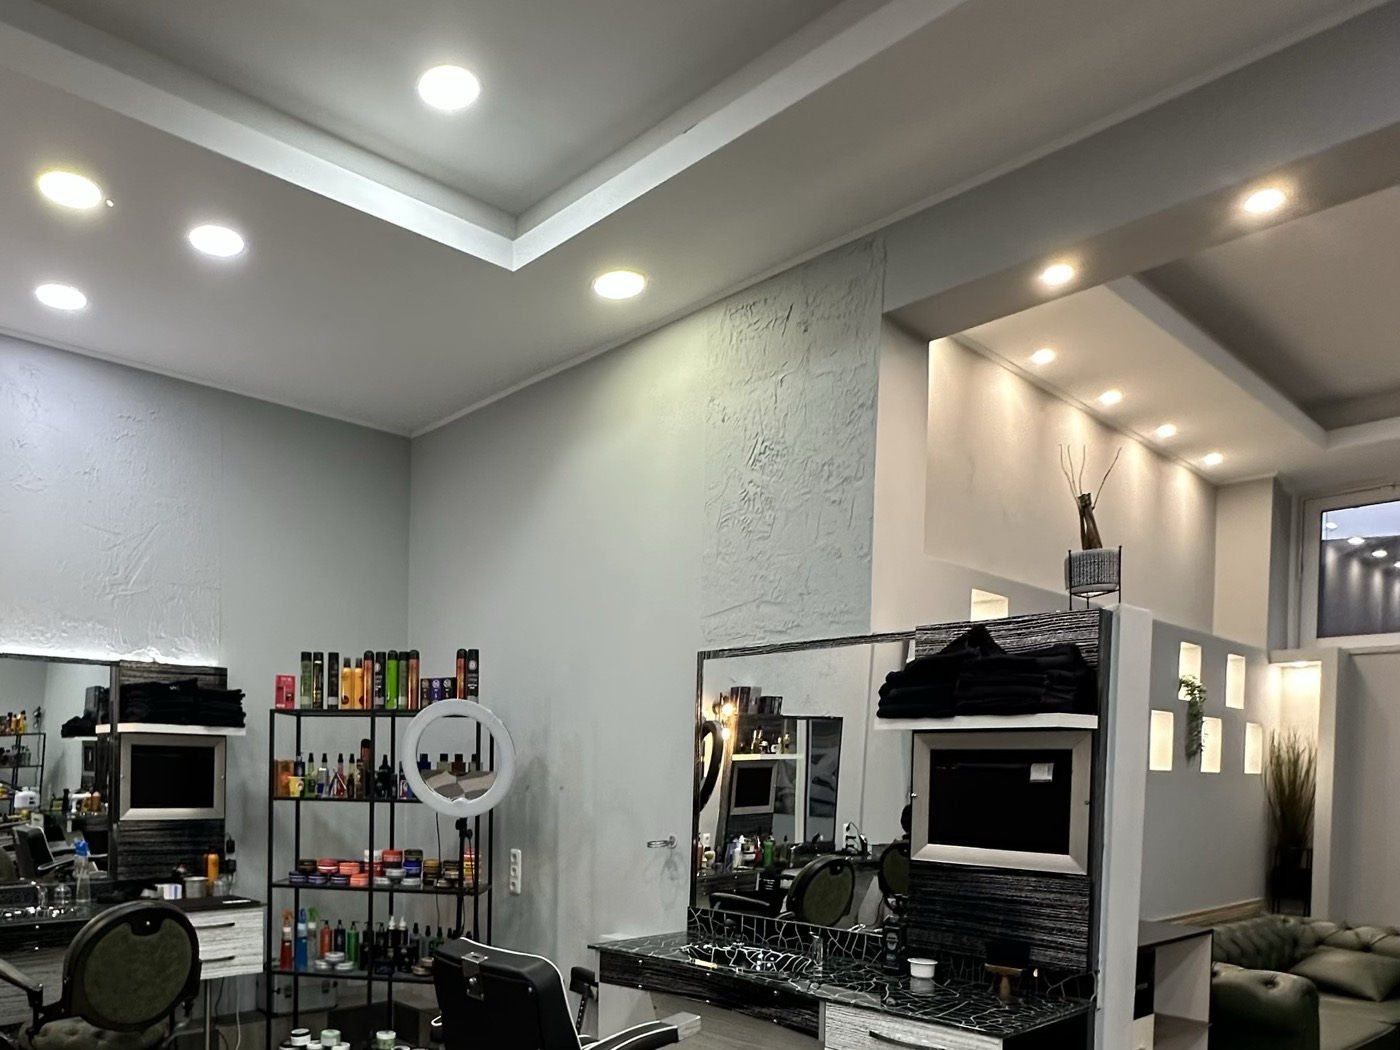
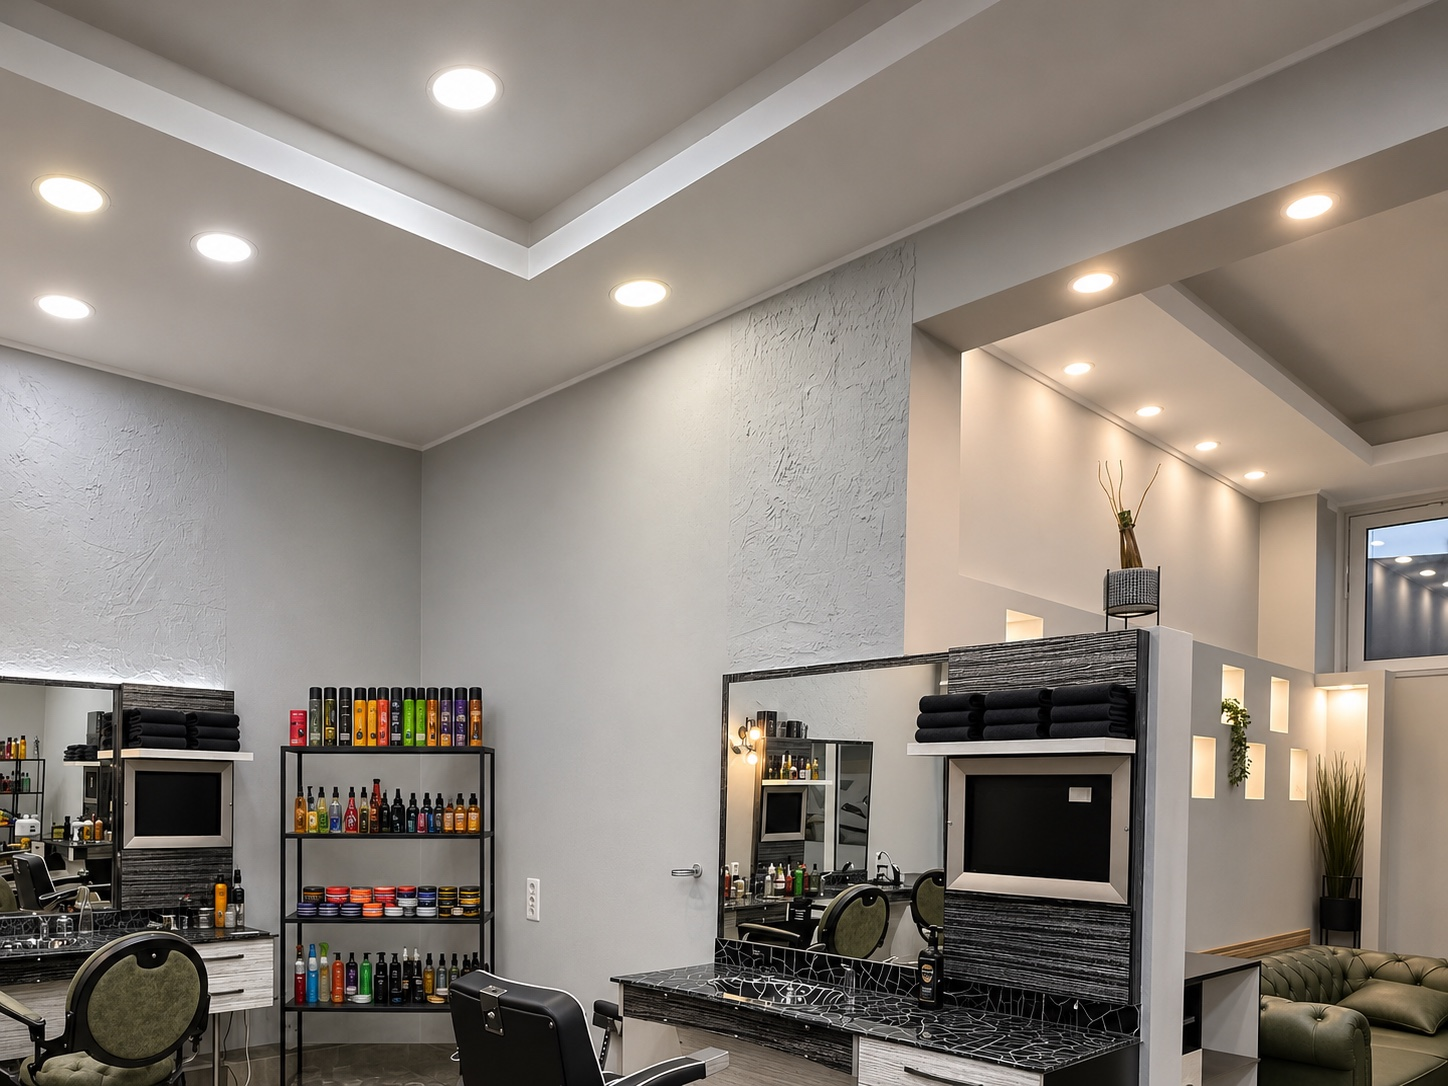
Update Gözde Barbershop draft photography

diff --git a/goezde-barbershop/v2/index.html b/goezde-barbershop/v2/index.html
@@ -1,0 +1,291 @@
+<!doctype html>
+<html lang="de">
+<head>
+  <meta charset="utf-8">
+  <meta name="viewport" content="width=device-width, initial-scale=1">
+  <meta name="robots" content="noindex, nofollow">
+  <meta name="description" content="Gözde Barbershop in Kiel-Gaarden. Haarschnitte, Fades und Bartpflege in der Johannesstraße 45.">
+  <meta name="theme-color" content="#561b29">
+  <title>Gözde Barbershop · Kiel-Gaarden</title>
+  <style>
+    :root {
+      color-scheme: light;
+      --paper: #f6efe5;
+      --ink: #28221f;
+      --muted: #64544e;
+      --wine: #561b29;
+      --light-wine: #eac7b9;
+      --line: #cfc0b4;
+      --display: Georgia, "Times New Roman", serif;
+    }
+
+    *, *::before, *::after { box-sizing: border-box; }
+    body {
+      margin: 0;
+      background: var(--paper);
+      color: var(--ink);
+      font: 1rem/1.55 system-ui, sans-serif;
+    }
+    h1, h2, h3, p, dl, dd, figure { margin: 0; }
+    a { color: inherit; text-underline-offset: .24em; }
+    a:focus-visible { outline: 2px solid currentColor; outline-offset: 5px; }
+    img { display: block; width: 100%; height: 100%; object-fit: cover; }
+    .shell { width: min(100% - 5rem, 1320px); margin-inline: auto; }
+    .label { font-size: .875rem; font-weight: 650; letter-spacing: .13em; text-transform: uppercase; }
+    .skip { position: absolute; top: .5rem; left: .5rem; z-index: 1; padding: .75rem; background: var(--paper); }
+    .skip:not(:focus) { clip-path: inset(50%); }
+
+    .masthead {
+      display: flex;
+      align-items: center;
+      justify-content: space-between;
+      gap: .5rem 1.5rem;
+      min-height: 78px;
+      padding-block: .6rem;
+    }
+    .wordmark { color: var(--wine); font: 700 1.85rem/1 var(--display); text-decoration: none; }
+    .navigation { display: flex; flex-wrap: wrap; gap: .15rem clamp(.9rem, 2.6vw, 2.5rem); }
+    .navigation a { display: inline-flex; align-items: center; min-height: 44px; font-size: .95rem; font-weight: 600; text-decoration: none; }
+    .navigation a:hover { text-decoration: underline; }
+    .draft { border: 1px solid var(--line); padding: .3rem .6rem; color: var(--wine); }
+
+    .hero { display: grid; grid-template-columns: 1fr 1fr; background: var(--wine); color: var(--paper); }
+    .hero-copy { padding: clamp(2.8rem, 6vw, 6rem) clamp(1.75rem, 4.5vw, 4.5rem); }
+    .hero-copy .label { color: var(--light-wine); }
+    h1 {
+      margin-block: 1.5rem 1.65rem;
+      font: 400 clamp(5rem, 9.8vw, 10rem)/.82 var(--display);
+      letter-spacing: -.08em;
+    }
+    h1 em { display: block; margin-top: .23em; font-size: .53em; letter-spacing: -.055em; font-weight: 400; }
+    .hero-lead { max-width: 28ch; font-size: clamp(1rem, 1.45vw, 1.2rem); }
+    .hero-photo { min-width: 0; min-height: 100%; position: relative; }
+    .hero-photo img { position: absolute; object-position: 53% 62%; }
+    .button {
+      display: inline-flex;
+      align-items: center;
+      justify-content: center;
+      width: fit-content;
+      min-height: 48px;
+      padding: .65rem 1.15rem;
+      border: 1px solid var(--paper);
+      background: var(--paper);
+      color: var(--wine);
+      font-weight: 700;
+      text-decoration: none;
+    }
+    .button:hover { background: var(--light-wine); }
+    .button:focus-visible { outline-color: var(--paper); }
+    .hero .button { margin-top: 1.65rem; }
+    .visit-strip {
+      display: grid;
+      grid-template-columns: repeat(3, minmax(0, 1fr));
+      border-bottom: 1px solid var(--line);
+    }
+    .visit-strip a {
+      display: flex;
+      flex-direction: column;
+      min-width: 0;
+      padding: 1rem clamp(.85rem, 2.7vw, 2.6rem);
+      text-decoration: none;
+    }
+    .visit-strip a + a { border-left: 1px solid var(--line); }
+    .visit-strip a:hover { background: #efe3d7; }
+    .visit-strip .label { color: var(--wine); }
+    .visit-strip .detail { margin-top: .2rem; }
+
+    .section { padding-block: clamp(3.5rem, 7.5vw, 7.5rem); }
+    h2 { color: var(--wine); font: 400 clamp(3rem, 6.3vw, 6rem)/.97 var(--display); letter-spacing: -.065em; }
+    .services { display: grid; grid-template-columns: minmax(0, .8fr) minmax(0, 1.2fr); gap: clamp(2rem, 8vw, 8rem); }
+    .section-intro p { max-width: 29ch; margin-top: 1.1rem; color: var(--muted); }
+    .service-list > div { padding-block: 1.05rem; border-top: 1px solid var(--line); }
+    .service-list > div:last-child { border-bottom: 1px solid var(--line); }
+    .service-list dt { font: 400 clamp(1.45rem, 2.4vw, 2rem)/1.12 var(--display); }
+    .service-list dd { margin-top: .35rem; color: var(--muted); }
+
+    .salon { border-top: 1px solid var(--line); }
+    .salon-heading { display: flex; align-items: end; justify-content: space-between; flex-wrap: wrap; gap: 1rem 2rem; margin-bottom: 1.6rem; }
+    .salon-heading p { max-width: 34ch; color: var(--muted); }
+    .gallery { display: grid; grid-template-columns: 1.65fr 1fr; gap: clamp(.75rem, 2vw, 1.75rem); }
+    .gallery img { aspect-ratio: 1.65; height: auto; }
+    .gallery figure:last-child img { aspect-ratio: 1; object-position: center 65%; }
+    figcaption { padding-top: .5rem; color: var(--muted); font-size: .875rem; }
+
+    .reviews { border-top: 1px solid var(--line); }
+    .review-summary { display: grid; grid-template-columns: minmax(0, .8fr) minmax(0, 1.2fr); gap: 1.5rem clamp(2rem, 8vw, 8rem); align-items: start; }
+    .review-summary h2 { font-size: clamp(2.5rem, 4.5vw, 4.4rem); }
+    .review-copy p { max-width: 42ch; color: var(--muted); }
+    .review-copy .rating { margin-bottom: .5rem; color: var(--wine); font-weight: 700; }
+    .review-copy a { display: inline-block; margin-top: .75rem; color: var(--wine); }
+
+    .contact { background: var(--wine); color: var(--paper); }
+    .contact h2 { color: inherit; }
+    .contact-grid { display: grid; grid-template-columns: 1fr 1fr; gap: 2.5rem clamp(2rem, 8vw, 8rem); margin-top: 2.1rem; }
+    .contact h3 { margin-bottom: .75rem; color: var(--light-wine); }
+    address { font-style: normal; }
+    .contact-actions { display: flex; flex-wrap: wrap; gap: .65rem; margin-top: 1.15rem; }
+    .button-outline { background: transparent; color: var(--paper); }
+    .button-outline:hover { color: var(--wine); }
+    .hours { width: 100%; border-collapse: collapse; font-variant-numeric: tabular-nums; }
+    .hours th, .hours td { border-bottom: 1px solid #98636c; padding: .55rem 0; }
+    .hours th { padding-right: .75rem; text-align: left; font-weight: 500; }
+    .hours td { text-align: right; }
+    .access { margin-top: .9rem; color: var(--light-wine); }
+    footer {
+      display: flex;
+      justify-content: space-between;
+      flex-wrap: wrap;
+      gap: .5rem 1.5rem;
+      padding-block: 1rem;
+      color: var(--muted);
+      font-size: .875rem;
+    }
+
+    @media (max-width: 760px) {
+      .shell { width: calc(100% - 2rem); }
+      .masthead { display: grid; grid-template-columns: 1fr auto; padding-block: .85rem .25rem; }
+      .navigation { grid-row: 2; grid-column: 1 / -1; }
+      .hero, .services, .review-summary { grid-template-columns: 1fr; }
+      .hero-copy { padding-block: 2.4rem; }
+      h1 { font-size: clamp(4.7rem, 15vw, 7.3rem); }
+      .hero-photo { min-height: 0; aspect-ratio: 1.55; }
+      .visit-strip { grid-template-columns: 1fr; }
+      .visit-strip a { padding: .85rem 0; border-bottom: 1px solid var(--line); }
+      .visit-strip a + a { border-left: 0; }
+      .visit-strip { border-bottom: 0; }
+      .services { gap: 1.65rem; }
+    }
+
+    @media (max-width: 500px) {
+      .contact-grid, .gallery { grid-template-columns: 1fr; }
+      .gallery figure:last-child img { aspect-ratio: 1.65; }
+    }
+  </style>
+</head>
+<body>
+  <a class="skip" href="#inhalt">Zum Inhalt</a>
+  <header class="masthead shell">
+    <a class="wordmark" href="#inhalt" aria-label="Gözde Barbershop – Start">Gözde.</a>
+    <nav class="navigation" aria-label="Hauptnavigation">
+      <a href="#leistungen">Leistungen</a>
+      <a href="#salon">Salon</a>
+      <a href="#besuch">Besuch &amp; Kontakt</a>
+    </nav>
+    <span class="draft label">Entwurf</span>
+  </header>
+
+  <main id="inhalt">
+    <section class="hero shell" aria-labelledby="titel">
+      <div class="hero-copy">
+        <p class="label">Kiel-Gaarden</p>
+        <h1 id="titel">Gözde <em>Barbershop</em></h1>
+        <p class="hero-lead">Haarschnitte, Fades und Bartpflege in der Johannesstraße 45.</p>
+        <a class="button" href="tel:+4943138549076">Termin telefonisch anfragen</a>
+      </div>
+      <figure class="hero-photo">
+        <img src="../assets/salon-uebersicht.jpg" alt="Der Gözde Barbershop mit großen Spiegeln und Schachbrettboden" width="1448" height="1086" fetchpriority="high">
+      </figure>
+    </section>
+
+    <div class="visit-strip shell">
+      <a href="https://maps.app.goo.gl/9KV99X2SK7Gefa6M8">
+        <span class="label">Anfahrt</span>
+        <span class="detail">Johannesstraße 45, 24143 Kiel</span>
+      </a>
+      <a href="#zeiten">
+        <span class="label">Öffnungszeiten</span>
+        <span class="detail">Mo–Fr 9–19 Uhr · Sa 9–18 Uhr</span>
+      </a>
+      <a href="tel:+4943138549076">
+        <span class="label">Anrufen</span>
+        <span class="detail">0431 38549076</span>
+      </a>
+    </div>
+
+    <section id="leistungen" class="services section shell">
+      <div class="section-intro">
+        <h2>Haar &amp; Bart</h2>
+        <p>Aktuelle Preise erfahren Sie telefonisch oder direkt im Salon.</p>
+      </div>
+      <dl class="service-list">
+        <div>
+          <dt>Haarschnitt &amp; Fade</dt>
+          <dd>Klassischer Herrenhaarschnitt, Skin Fade und Taper Fade.</dd>
+        </div>
+        <div>
+          <dt>Bartpflege &amp; Rasur</dt>
+          <dd>Bart in Form bringen, Konturen schneiden oder klassisch rasieren.</dd>
+        </div>
+        <div>
+          <dt>Kinderhaarschnitt &amp; Kurzhaar</dt>
+          <dd>Kinderhaarschnitte, kurze Schnitte und Undercuts mit individuellen Mustern.</dd>
+        </div>
+        <div>
+          <dt>Waxing &amp; Styling</dt>
+          <dd>Waxing für Gesicht, Ohren und Nase sowie Waschen und Styling.</dd>
+        </div>
+      </dl>
+    </section>
+
+    <section id="salon" class="salon section shell">
+      <div class="salon-heading">
+        <h2>Der Salon</h2>
+        <p>Große Spiegel an den Bedienplätzen, grüne Chesterfield-Sofas im Wartebereich.</p>
+      </div>
+      <div class="gallery">
+        <figure>
+          <img src="../assets/lounge.jpg" alt="Grüne Chesterfield-Sofas mit Glastisch" width="1448" height="1086" loading="lazy">
+          <figcaption>Wartebereich</figcaption>
+        </figure>
+        <figure>
+          <img src="../assets/platz-rechts.jpg" alt="Schwarzer Friseurstuhl vor einem beleuchteten Spiegel" width="1122" height="1402" loading="lazy">
+          <figcaption>Bedienplatz</figcaption>
+        </figure>
+      </div>
+    </section>
+
+    <section class="reviews section shell" aria-labelledby="bewertungen">
+      <div class="review-summary">
+        <h2 id="bewertungen">Kundenstimmen</h2>
+        <div class="review-copy">
+          <p class="rating">4,8 von 5 · 150 Google-Bewertungen</p>
+          <p>Gäste loben das freundliche Team, saubere Übergänge und präzise Bartkonturen. Stand November 2026.</p>
+          <a href="https://maps.app.goo.gl/9KV99X2SK7Gefa6M8">Bewertungen bei Google lesen</a>
+        </div>
+      </div>
+    </section>
+
+    <section id="besuch" class="contact section">
+      <div class="shell">
+        <h2>Ihr Besuch</h2>
+        <div class="contact-grid">
+          <div>
+            <h3 class="label">Kontakt &amp; Anfahrt</h3>
+            <address>Gözde Barbershop<br>Johannesstraße 45<br>24143 Kiel-Gaarden</address>
+            <div class="contact-actions">
+              <a class="button" href="tel:+4943138549076">0431 38549076</a>
+              <a class="button button-outline" href="https://maps.app.goo.gl/9KV99X2SK7Gefa6M8">Route in Google Maps</a>
+            </div>
+          </div>
+          <div id="zeiten">
+            <h3 class="label">Öffnungszeiten</h3>
+            <table class="hours" aria-label="Öffnungszeiten">
+              <tbody>
+                <tr><th scope="row">Montag–Freitag</th><td>09:00–19:00 Uhr</td></tr>
+                <tr><th scope="row">Samstag</th><td>09:00–18:00 Uhr</td></tr>
+                <tr><th scope="row">Sonntag</th><td>Geschlossen</td></tr>
+              </tbody>
+            </table>
+            <p class="access">Termin empfohlen · Rollstuhlgerechter Eingang</p>
+          </div>
+        </div>
+      </div>
+    </section>
+  </main>
+
+  <footer class="shell">
+    <span>Gözde Barbershop · Kiel-Gaarden</span>
+    <span>Impressum und Datenschutz werden zur Veröffentlichung ergänzt.</span>
+  </footer>
+</body>
+</html>

diff --git a/goezde-barbershop/index.html b/goezde-barbershop/index.html
@@ -644,7 +644,7 @@ footer .wrap{display:flex;flex-wrap:wrap;justify-content:space-between;gap:14px}
     </div>
 
     <figure class="hero-media">
-      <img src="assets/aussen.jpg" alt="Eingang des Gözde Barbershop in der Johannesstraße 45 in Kiel-Gaarden mit Leuchtschild und Barber-Pole" width="1200" height="1500" fetchpriority="high">
+      <img src="assets/aussen.jpg" alt="Eingang des Gözde Barbershop in der Johannesstraße 45 in Kiel-Gaarden mit Leuchtschild und Barber-Pole" width="1121" height="1403" fetchpriority="high">
       <figcaption>Johannesstraße 45 · Kiel-Gaarden</figcaption>
     </figure>
   </div>
@@ -708,25 +708,25 @@ footer .wrap{display:flex;flex-wrap:wrap;justify-content:space-between;gap:14px}
     <div class="bento">
       <div class="bento-top">
         <figure class="ratio-4-3">
-          <img src="assets/salon-uebersicht.jpg" alt="Innenansicht des Gözde Barbershop mit beleuchteten Spiegeln, Waschbecken und Schachbrettboden" width="1400" height="1050" loading="lazy">
+          <img src="assets/salon-uebersicht.jpg" alt="Innenansicht des Gözde Barbershop mit beleuchteten Spiegeln, Waschbecken und Schachbrettboden" width="1448" height="1086" loading="lazy">
           <figcaption>Helle Bedienplätze mit eigenem Waschbecken direkt am Platz</figcaption>
         </figure>
         <figure class="ratio-4-5">
-          <img src="assets/platz-rechts.jpg" alt="Moderner Barbershop-Platz mit schwarzem Stuhl, Spiegel, Pflegeprodukten und Blick in die Lounge" width="1080" height="1350" loading="lazy">
+          <img src="assets/platz-rechts.jpg" alt="Moderner Barbershop-Platz mit schwarzem Stuhl, Spiegel, Pflegeprodukten und Blick in die Lounge" width="1122" height="1402" loading="lazy">
           <figcaption>Saubere Ausstattung und professionelle Pflegeprodukte</figcaption>
         </figure>
       </div>
       <div class="bento-bottom">
         <figure class="ratio-4-3">
-          <img src="assets/lounge.jpg" alt="Wartebereich mit zwei dunkelgrünen Chesterfield-Sofas und Glastisch" width="1400" height="1050" loading="lazy">
+          <img src="assets/lounge.jpg" alt="Wartebereich mit zwei dunkelgrünen Chesterfield-Sofas und Glastisch" width="1448" height="1086" loading="lazy">
           <figcaption>Chesterfield-Lounge im hinteren Bereich</figcaption>
         </figure>
         <figure class="ratio-4-3">
-          <img src="assets/salon-stuehle.jpg" alt="Mehrere Friseurstühle in Olivgrün und Schwarz vor großen Spiegeln" width="1400" height="1050" loading="lazy">
+          <img src="assets/salon-stuehle.jpg" alt="Mehrere Friseurstühle in Olivgrün und Schwarz vor großen Spiegeln" width="1448" height="1086" loading="lazy">
           <figcaption>Mehrere Plätze für kurze Wartezeiten</figcaption>
         </figure>
         <figure class="ratio-4-5">
-          <img src="assets/platz-detail.jpg" alt="Detailansicht des dunklen Marmor-Waschtischs mit Schubladen und Übergang zur Lounge" width="1080" height="1350" loading="lazy">
+          <img src="assets/platz-detail.jpg" alt="Detailansicht des dunklen Marmor-Waschtischs mit Schubladen und Übergang zur Lounge" width="1122" height="1402" loading="lazy">
           <figcaption>Klare Linien und viel Raum</figcaption>
         </figure>
       </div>

diff --git a/index.html b/index.html
@@ -40,6 +40,7 @@ span.go{color:var(--accent);font-weight:600;white-space:nowrap}
 <ul>
  <li><a href="istanbul-coffee/"><div><b>Istanbul Coffee &amp; Restaurant</b><small>Türkische Küche &amp; Coffee · Elisabethstraße 41</small></div><span class="go">Ansehen →</span></a></li>
  <li><a href="goezde-barbershop/"><div><b>Gözde Barbershop</b><small>Barbershop &amp; Herrenfriseur · Johannesstraße 45</small></div><span class="go">Ansehen →</span></a></li>
+ <li><a href="goezde-barbershop/v2/"><div><b>Gözde Barbershop · Entwurf 2</b><small>Innenansicht auf der Startseite · Johannesstraße 45</small></div><span class="go">Ansehen →</span></a></li>
 </ul>
 </main>
 </body>
